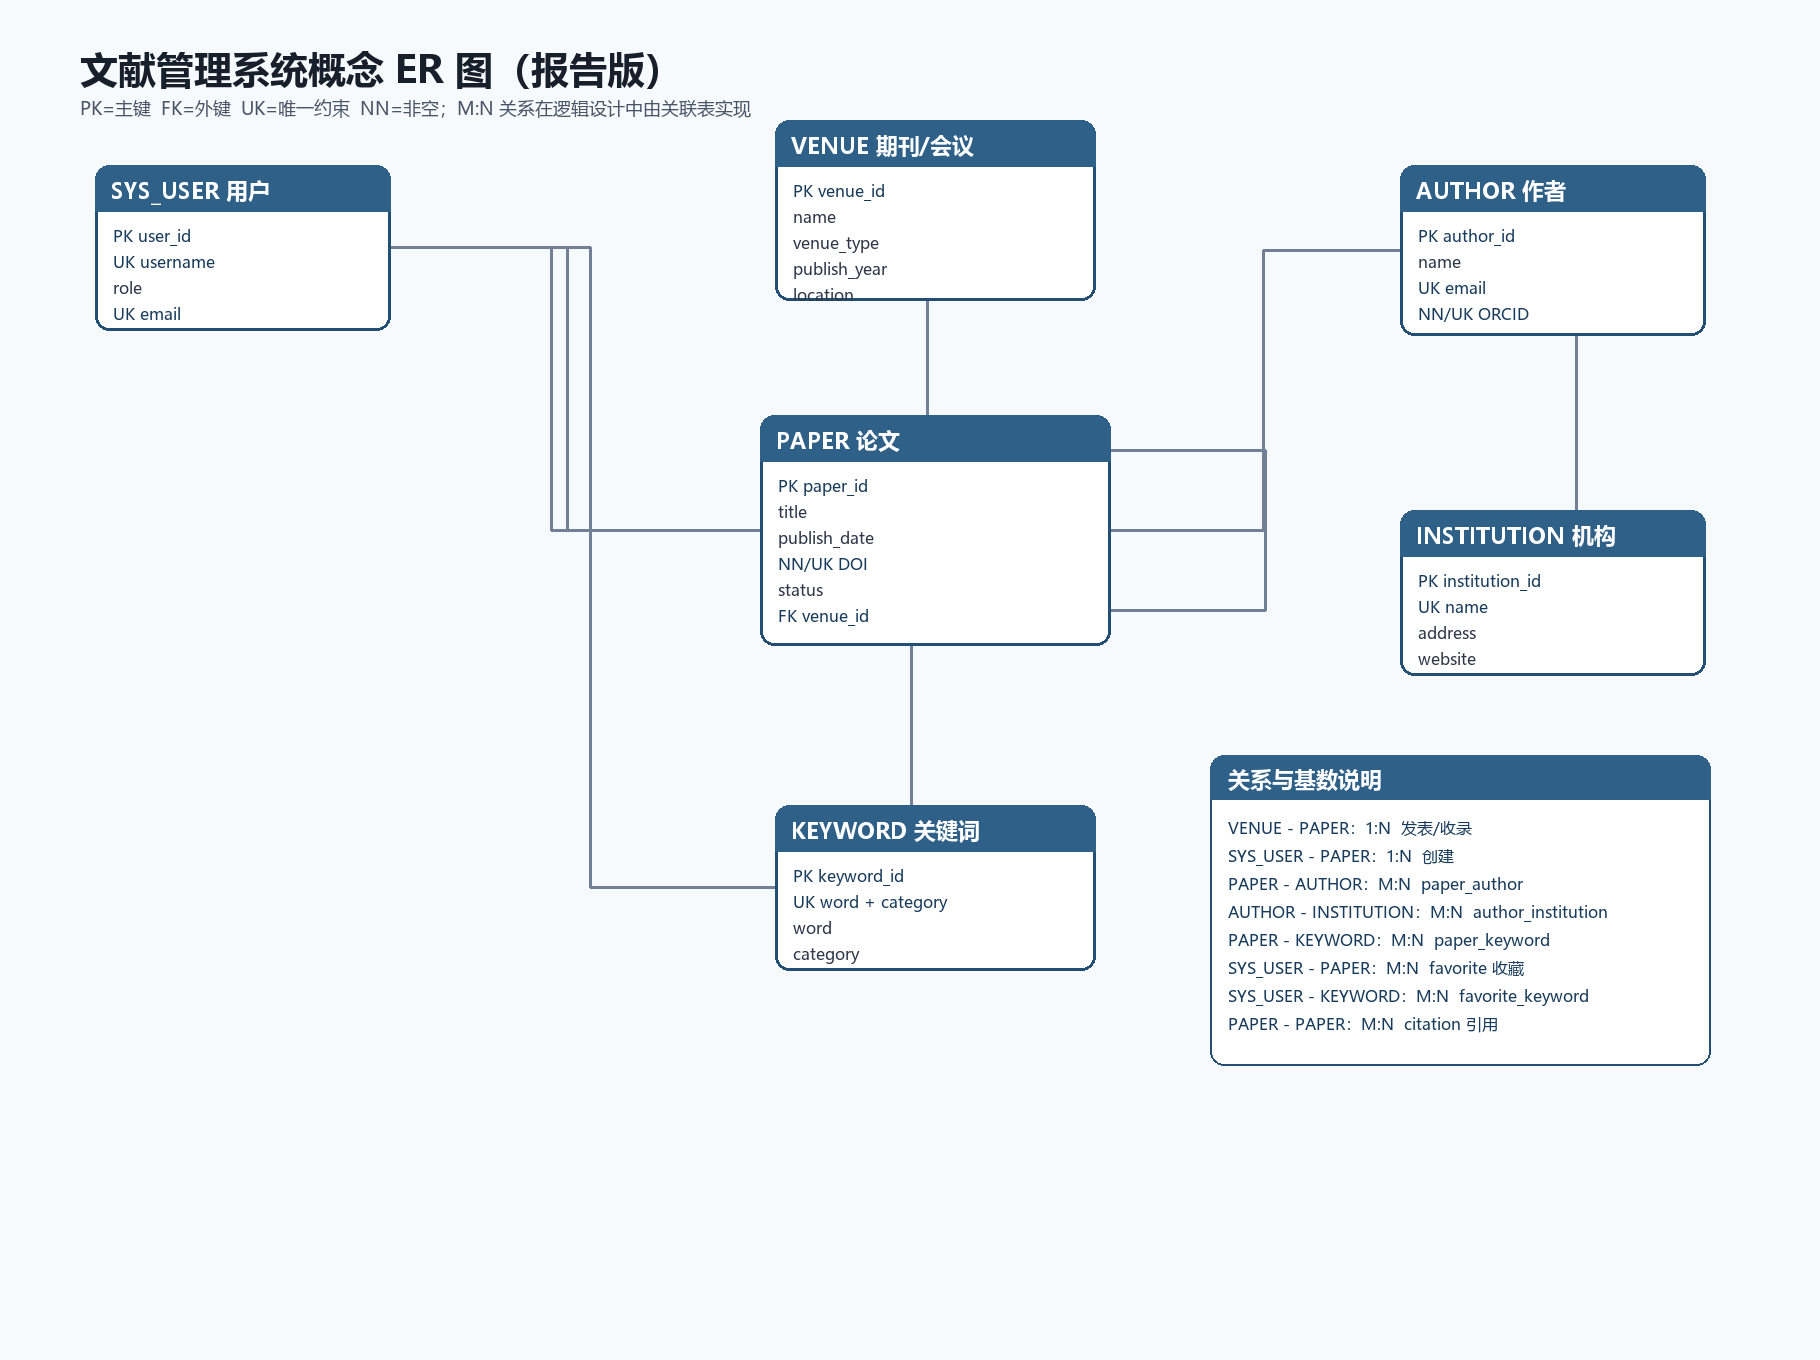
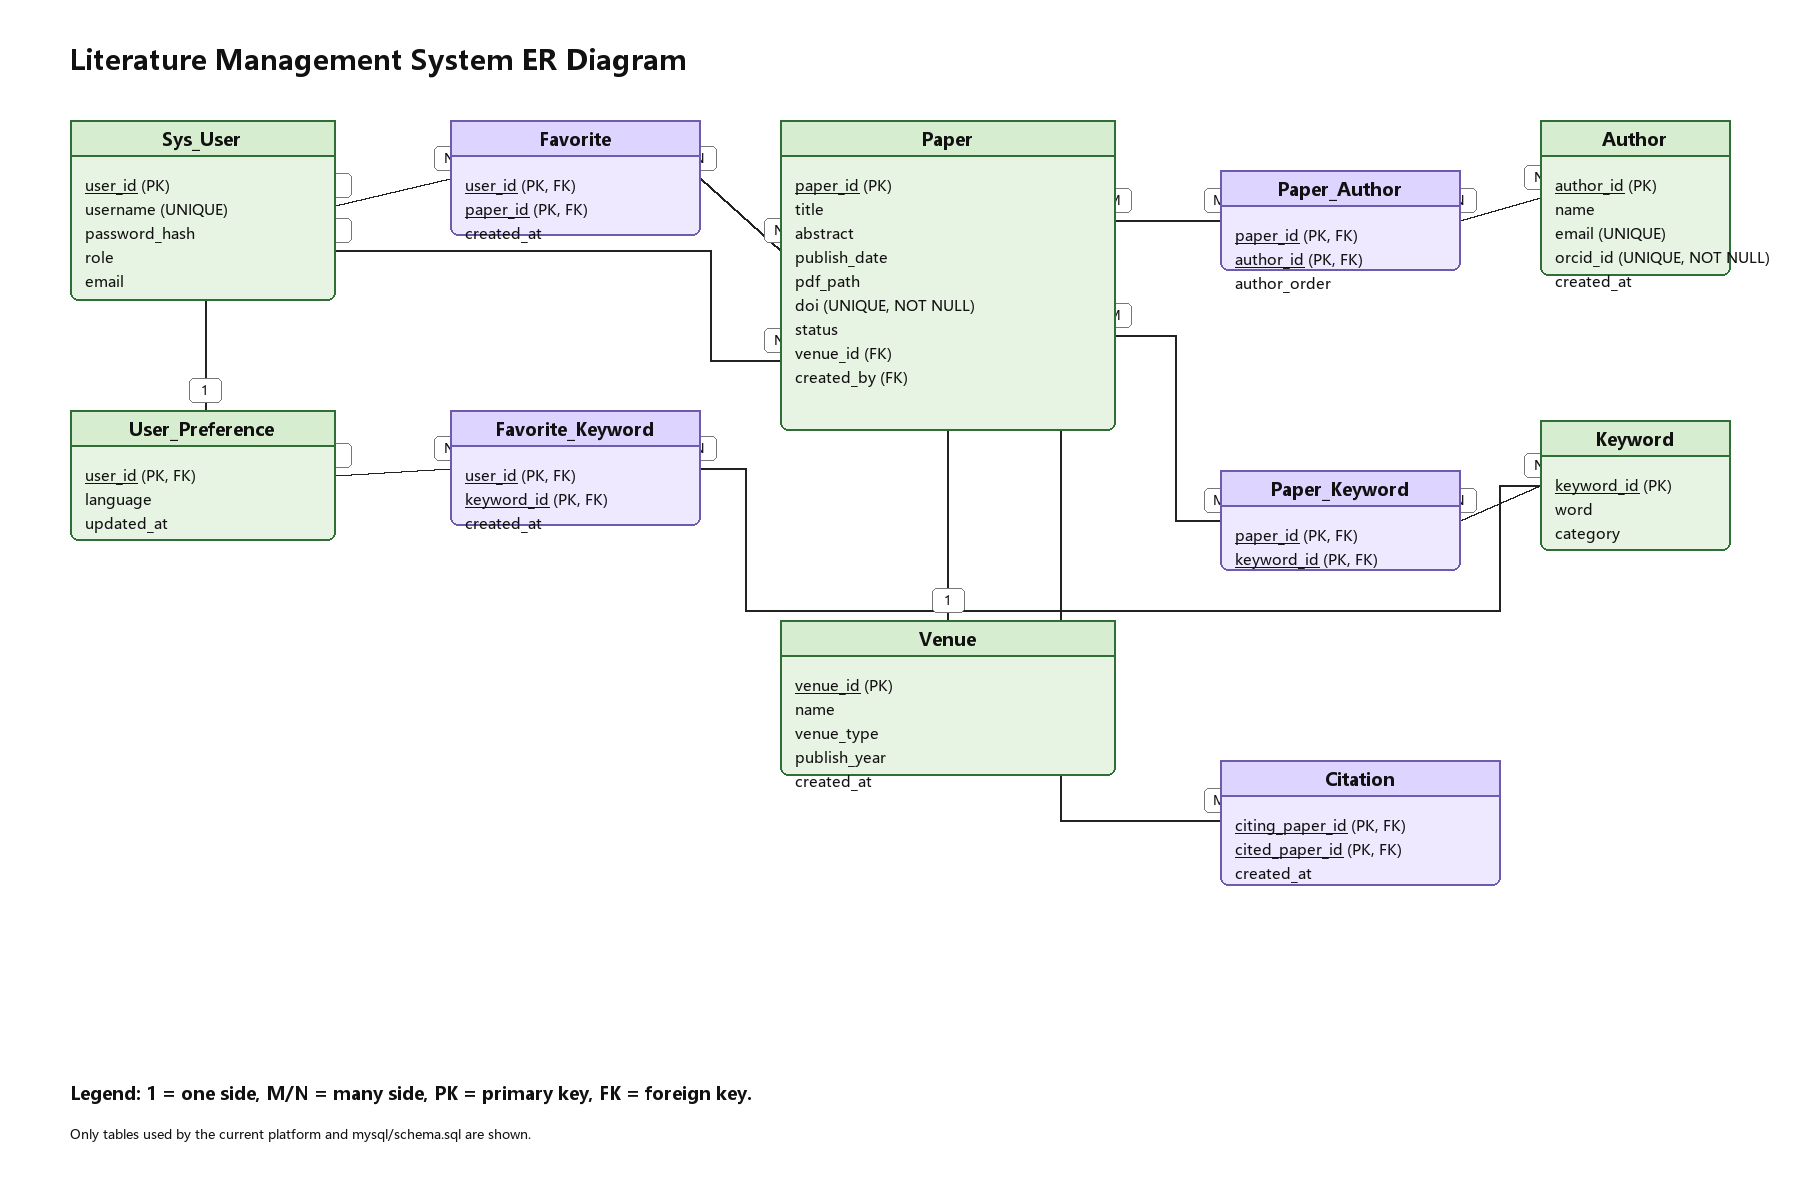
Add files via upload

diff --git a/app_mysql.py b/app_mysql.py
@@ -1,4 +1,4 @@
-from __future__ import annotations
+from __future__ import annotations
 
 import csv
 import io
@@ -85,7 +85,6 @@ TEXT = {
         "add_keyword": "添加",
         "citations": "引用",
         "query_placeholder": "标题 / 摘要 / DOI / 作者",
-        "institution": "单位",
         "year": "年份",
         "year_from": "起始年份",
         "year_to": "结束年份",
@@ -206,7 +205,6 @@ TEXT = {
         "add_keyword": "Add",
         "citations": "Citations",
         "query_placeholder": "Title / abstract / DOI / author",
-        "institution": "Institution",
         "year": "Year",
         "year_from": "From Year",
         "year_to": "To Year",
@@ -508,7 +506,7 @@ def keyword_filter_url(query: dict, keyword_id: int, key: str = "fav_keyword", a
         selected.append(keyword_id)
 
     params: list[tuple[str, str]] = []
-    for preserved_key in ("q", "year", "year_from", "year_to", "keyword", "institution", "status"):
+    for preserved_key in ("q", "year", "year_from", "year_to", "keyword", "status"):
         value = query.get(preserved_key)
         if value:
             params.append((preserved_key, str(value)))
@@ -525,7 +523,7 @@ def keyword_filter_url(query: dict, keyword_id: int, key: str = "fav_keyword", a
 
 def keyword_text_filter_url(query: dict, remove_word: str = "") -> str:
     params: list[tuple[str, str]] = []
-    for preserved_key in ("q", "year", "year_from", "year_to", "institution", "status"):
+    for preserved_key in ("q", "year", "year_from", "year_to", "status"):
         value = query.get(preserved_key)
         if value:
             params.append((preserved_key, str(value)))
@@ -728,8 +726,8 @@ def register_user(username: str, password: str, email: str = "") -> None:
     )
     user_id = current_user_id(username)
     run_sql(
-        "INSERT IGNORE INTO user_preference(user_id, language, font_family, font_size) "
-        f"VALUES ({user_id}, 'zh', 'system', 'normal');"
+        "INSERT IGNORE INTO user_preference(user_id, language) "
+        f"VALUES ({user_id}, 'zh');"
     )
 
 
@@ -751,8 +749,8 @@ def clear_login_cookie_header() -> str:
 
 def preferences(user_id: int) -> dict[str, str]:
     run_sql(
-        "INSERT IGNORE INTO user_preference(user_id, language, font_family, font_size) "
-        f"VALUES ({user_id}, 'zh', 'system', 'normal');"
+        "INSERT IGNORE INTO user_preference(user_id, language) "
+        f"VALUES ({user_id}, 'zh');"
     )
     rows = run_sql(
         f"""
@@ -772,8 +770,8 @@ def preferences(user_id: int) -> dict[str, str]:
 def update_preferences(user_id: int, data: dict) -> None:
     language = data.get("language") if data.get("language") in {"zh", "en"} else "zh"
     run_sql(
-        "INSERT INTO user_preference(user_id, language, font_family, font_size) VALUES "
-        f"({user_id}, {quote(language)}, 'system', 'normal') "
+        "INSERT INTO user_preference(user_id, language) VALUES "
+        f"({user_id}, {quote(language)}) "
         "ON DUPLICATE KEY UPDATE "
         "language = VALUES(language);"
     )
@@ -885,8 +883,8 @@ def create_paper(data: dict, user_id: int = 1) -> int:
 
     for order, author_id in enumerate(data.get("author_ids") or [], 1):
         statements.append(
-            "INSERT IGNORE INTO paper_author(paper_id, author_id, author_order, is_corresponding) "
-            f"SELECT @new_paper_id, author_id, {order}, {1 if order == 1 else 0} "
+            "INSERT IGNORE INTO paper_author(paper_id, author_id, author_order) "
+            f"SELECT @new_paper_id, author_id, {order} "
             f"FROM author WHERE author_id = {int(author_id)} LIMIT 1"
         )
 
@@ -992,8 +990,8 @@ def update_paper(paper_id: int, data: dict, user_id: int = 1) -> None:
     )
     for order, author_id in enumerate(data.get("author_ids") or [], 1):
         statements.append(
-            "INSERT IGNORE INTO paper_author(paper_id, author_id, author_order, is_corresponding) "
-            f"SELECT {paper_id}, author_id, {order}, {1 if order == 1 else 0} "
+            "INSERT IGNORE INTO paper_author(paper_id, author_id, author_order) "
+            f"SELECT {paper_id}, author_id, {order} "
             f"FROM author WHERE author_id = {int(author_id)} LIMIT 1"
         )
     statements.append(f"DELETE FROM paper_keyword WHERE paper_id = {paper_id}")
@@ -1007,12 +1005,6 @@ def update_paper(paper_id: int, data: dict, user_id: int = 1) -> None:
             f"SELECT {paper_id}, keyword_id FROM keyword "
             f"WHERE word = {quote(keyword)} AND category = 'topic' LIMIT 1"
         )
-    statements.append(
-        "INSERT INTO paper_version(paper_id, version_no, change_log, operator_id) "
-        f"SELECT {paper_id}, COALESCE(MAX(version_no), 0) + 1, '管理员修改并发布', {int(user_id or 1)} "
-        "FROM paper_version "
-        f"WHERE paper_id = {paper_id}"
-    )
     run_sql(";\n".join(statements) + ";")
 
 
@@ -1028,11 +1020,9 @@ def paper_rows(query: dict, user_id: int | None = None, is_admin: bool = False) 
         clauses.append(
             "("
             f"title LIKE {quote(q)} OR abstract LIKE {quote(q)} OR doi LIKE {quote(q)} "
-            f"OR authors LIKE {quote(q)} OR institutions LIKE {quote(q)}"
+            f"OR authors LIKE {quote(q)}"
             ")"
         )
-    if query.get("institution"):
-        clauses.append(f"institutions LIKE {quote('%' + query['institution'] + '%')}")
     if query.get("year") and re.fullmatch(r"\d{4}", str(query["year"])):
         clauses.append(f"YEAR(publish_date) = {int(query['year'])}")
     if query.get("year_from") and re.fullmatch(r"\d{4}", str(query["year_from"])):
@@ -1069,7 +1059,7 @@ def paper_rows(query: dict, user_id: int | None = None, is_admin: bool = False) 
         SELECT
           paper_id, title, abstract, publish_date, doi, venue_name,
           status,
-          authors, institutions, keywords,
+          authors, keywords,
           reference_count AS ref_count,
           cited_by_count,
           EXISTS(
@@ -1516,7 +1506,7 @@ def render_index(
         f"""
         <tr>
           <td><strong>{html_escape(row.get('title'))}</strong><span>{html_escape(row.get('doi') or t['no_doi'])}</span>{f"<i class='status-badge status-{html_escape(row.get('status') or 'active')}'>{html_escape(status_label(row.get('status')))}</i>" if is_admin else ""}</td>
-          <td>{html_escape(row.get('authors') or '-')}<span>{html_escape(row.get('institutions') or '-')}</span></td>
+          <td>{html_escape(row.get('authors') or '-')}</td>
           <td>{html_escape(row.get('venue_name') or '-')}<span>{html_escape(row.get('publish_date'))}</span></td>
           <td>{html_escape(row.get('keywords') or '-')}</td>
           <td><b>{html_escape(row.get('ref_count') or 0)}</b> {t['reference_label']} / <b>{html_escape(row.get('cited_by_count') or 0)}</b> {t['cited_by_label']}</td>
@@ -1886,7 +1876,6 @@ document.addEventListener('change', function (event) {
             {keyword_options_html}
           </select>
         </div>
-        <input name="institution" placeholder="{t['institution']}" value="{html_escape(query.get('institution',''))}">
         {''.join(f'<input type="hidden" name="fav_keyword" value="{html_escape(item)}">' for item in selected_keyword_ids(query))}
         {''.join(f'<input type="hidden" name="keyword_filter" value="{html_escape(word)}">' for word in search_keyword_filters)}
         <button>{t['combined_search']}</button>
@@ -2675,3 +2664,5 @@ def main() -> None:
 
 if __name__ == "__main__":
     main()
+
+

diff --git a/docs/MySQL数据库设计说明.md b/docs/MySQL数据库设计说明.md
@@ -1,40 +1,32 @@
 # MySQL 数据库设计说明
 
-核心实体包括 User、Paper、Venue、Author、Institution、Keyword、Tag、Citation、PaperVersion、AuditLog。主要联系如下：
+核心实体包括 User、Paper、Venue、Author、Keyword、Citation。主要联系如下：
 - Venue 与 Paper 为一对多关系，Paper 通过 venue_id 引用 Venue。
-- Paper 与 Author 为多对多关系，通过 paper_author 维护作者顺序和通讯作者标记。
-- Author 与 Institution 为多对多关系，通过 author_institution 维护任职起止年份。
+- Paper 与 Author 为多对多关系，通过 paper_author 维护作者顺序。
 - Paper 与 Keyword 为多对多关系，通过 paper_keyword 维护论文主题词。
 - Paper 与 Paper 之间存在自关联多对多引用关系，通过 citation 表保存 citing_paper_id 与 cited_paper_id。
 - User 与 Paper 之间通过 favorite 表表示收藏论文；User 与 Keyword 之间通过 favorite_keyword 表表示收藏关键词。
-- Paper 与 PaperVersion 是一对多关系，用于保存元数据版本；AuditLog 记录关键增改行为。
 ER 图已生成为图片文件 docs/ER图.png，报告 PDF 中应插入该图片；Mermaid 源码仅作为开发过程中的辅助材料，不作为报告正文展示。
 
 ## 表结构定义
 
-本系统数据库名为 literature_management，采用 utf8mb4 字符集。逻辑设计将论文、作者、机构、来源、关键词等概念拆分为独立实体表，并用关联表维护多对多关系。
-期中设计中 Institution 表本身存在 3NF 风险：如果在 institution 表内同时保存 address 和 country，而 country 可以由 address 中的国家/地区信息推导，则存在 institution_id -> address -> country 的传递依赖。country 不是由主键直接描述的独立事实，而是依赖另一个非主属性 address。期末版本删除 institution.country，仅保留 name、address、website，从而消除该传递依赖。
+本系统数据库名为 literature_management，采用 utf8mb4 字符集。逻辑设计将论文、作者、来源、关键词、用户等概念拆分为独立实体表，并用关联表维护多对多关系。
+期中设计中 Institution 表本身存在 3NF 风险：如果在 institution 表内同时保存 address 和 country，而 country 可以由 address 中的国家/地区信息推导，则存在 institution_id -> address -> country 的传递依赖。country 不是由主键直接描述的独立事实，而是依赖另一个非主属性 address。期末实现中平台没有作者机构维护功能，因此不再保留 Institution 与 author_institution 预留表，从结构上消除该传递依赖及未实现冗余。
 当前模型满足 1NF：表中字段均为原子值，作者列表、关键词列表、引用列表不再存入 paper 单字段，而是由 paper_author、paper_keyword、citation 表维护。
 当前模型满足 2NF：带联合主键的关联表中，非主属性依赖完整联合主键。例如 paper_author 的 author_order 描述某篇论文中的某位作者顺序，依赖 paper_id 与 author_id 共同确定的关系。
-当前模型满足 3NF：每张实体表只描述一个主题，非主属性不依赖其他非主属性。例如 paper 只保存 venue_id，不直接冗余 venue_name/publisher；author 不直接冗余机构信息；keyword 独立维护词汇与类别；institution 不再保存可由 address 推导的 country。
+当前模型满足 3NF：每张实体表只描述一个主题，非主属性不依赖其他非主属性。例如 paper 只保存 venue_id，不直接冗余 venue_name；author 使用 ORCID 唯一区分作者，不冗余机构信息；keyword 独立维护词汇与类别。
 
 ## 完整性与高级对象
 
 - sys_user：user_id PK; username UK; password_hash; role; email UK; created_at; updated_at。用途：系统用户、角色与登录凭据。
-- user_preference：user_id PK/FK; language; font_family; font_size; updated_at。用途：用户界面语言等偏好。
-- paper：paper_id PK; title; abstract; publish_date; pdf_path; doi NOT NULL UK; external_citation_count; status; venue_id FK; created_by FK。用途：论文元数据主表，DOI 用于论文去重。
-- venue：venue_id PK; name; venue_type; publisher; publish_year; location; website; created_at。用途：期刊、会议、预印本等来源。
-- author：author_id PK; name; email UK; orcid_id NOT NULL UK; homepage; created_at。用途：作者基本信息，ORCID 用于作者去重。
-- institution：institution_id PK; name UK; address; website。用途：机构信息，已删除 country 以满足 3NF。
-- author_institution：author_id PK/FK; institution_id PK/FK; start_year; end_year。用途：作者与机构多对多关系。
+- user_preference：user_id PK/FK; language; updated_at。用途：用户界面语言偏好。
+- paper：paper_id PK; title; abstract; publish_date; pdf_path; doi NOT NULL UK; status; venue_id FK; created_by FK。用途：论文元数据主表，DOI 用于论文去重。
+- venue：venue_id PK; name; venue_type; publish_year; created_at。用途：期刊、会议、预印本等来源。
+- author：author_id PK; name; email UK; orcid_id NOT NULL UK; created_at。用途：作者基本信息，ORCID 用于作者去重。
 - keyword：keyword_id PK; word; category; UNIQUE(word, category)。用途：关键词、领域词与主题词。
-- paper_author：paper_id PK/FK; author_id PK/FK; author_order; is_corresponding。用途：论文与作者关系及顺序。
+- paper_author：paper_id PK/FK; author_id PK/FK; author_order。用途：论文与作者关系及顺序。
 - paper_keyword：paper_id PK/FK; keyword_id PK/FK。用途：论文与关键词关系。
 - favorite：user_id PK/FK; paper_id PK/FK; created_at。用途：用户收藏论文。
 - favorite_keyword：user_id PK/FK; keyword_id PK/FK; created_at。用途：用户收藏关键词。
-- tag：tag_id PK; user_id FK; name; color; created_at。用途：用户自定义标签。
-- paper_tag：paper_id PK/FK; tag_id PK/FK。用途：论文与标签关系。
-- citation：citing_paper_id PK/FK; cited_paper_id PK/FK; context; created_at。用途：论文内部引用关系。
-- paper_version：version_id PK; paper_id FK; version_no; update_time; change_log; operator_id。用途：论文元数据版本记录。
-- audit_log：log_id PK; table_name; record_id; action_type; action_time; detail JSON。用途：关键数据变更审计日志。
+- citation：citing_paper_id PK/FK; cited_paper_id PK/FK; created_at。用途：论文内部引用关系。
 完整 SQL 定义见 mysql/schema.sql。

diff --git a/mysql/README.md b/mysql/README.md
@@ -62,24 +62,19 @@ SELECT * FROM v_paper_detail ORDER BY paper_id DESC LIMIT 20;
 - `paper`：论文元数据
 - `venue`：期刊、会议、预印本等来源
 - `author`：作者
-- `institution`：机构
-- `keyword`：关键词和领域标签
-- `tag`：用户自定义标签
-- `paper_version`：论文版本记录
-- `audit_log`：审计日志
+- `keyword`：关键词和领域词
 
 核心关联表：
 
 - `paper_author`：论文和作者的多对多关系
-- `paper_keyword`：论文和关键词/领域标签的多对多关系
-- `author_institution`：作者和机构的多对多关系
+- `paper_keyword`：论文和关键词/领域词的多对多关系
 - `favorite`：用户收藏论文
-- `paper_tag`：论文和标签的多对多关系
+- `favorite_keyword`：用户收藏关键词
 - `citation`：论文引用论文的自关联关系
 
 高级对象：
 
-- `v_paper_detail`：论文详情聚合视图，包含作者、单位、关键词、引用数和被引数
+- `v_paper_detail`：论文详情聚合视图，包含作者、关键词、引用数和被引数
 - `sp_create_paper`：新增论文存储过程
 - `trg_paper_before_insert` / `trg_paper_before_update`：禁止未来发表日期
 - `trg_citation_before_insert` / `trg_citation_before_update`：禁止论文自引用

diff --git a/README.md b/README.md
@@ -22,6 +22,8 @@ init_mysql_db.bat
 1. `mysql/schema.sql`
 2. `mysql/seed_data.sql`
 
+`seed_data.sql` 会创建课程演示默认管理员账号：用户名 `admin`，密码 `admin123`。普通用户可在登录页自行注册。
+
 备用命令行方式：
 ```bash
 mysql -u root -p < mysql/schema.sql
@@ -37,8 +39,9 @@ python app_mysql.py
 Windows 下可双击 `start_mysql_app.bat`。脚本会优先使用系统 Python，并在缺少依赖时提示安装命令。启动后访问 `http://127.0.0.1:8000`。
 
 ## 功能验证
+- 使用默认管理员账号 `admin` / `admin123` 登录，检查审核、修改、归档、删除等管理员功能。
 - 注册普通用户并登录。
-- 使用标题、作者、机构、年份范围、关键词进行组合检索。
+- 使用标题、作者、年份范围、关键词进行组合检索。
 - 上传 PDF，检查系统是否预填表单但不直接入库。
 - 新增论文，普通用户提交后状态为 pending。
 - 新增作者必须填写唯一 ORCID；新增论文必须填写唯一 DOI，并选择作者表中的作者。

diff --git a/docs/用户手册.md b/docs/用户手册.md
@@ -2,8 +2,8 @@
 
 1. 初始化数据库：推荐双击 init_mysql_db.bat，脚本会自动运行 mysql/schema.sql 和 mysql/seed_data.sql。新建库会覆盖同名literature_management 数据库。
 2. 启动平台：双击 start_mysql_app.bat，按提示输入 MySQL 用户名和密码；浏览器打开 http://127.0.0.1:8000。
-3. 登录注册：普通用户可点击注册创建账号；管理员账号由 seed_data.sql 初始化。
-4. 检索论文：在检索区输入标题、摘要、DOI、作者或机构；可填写年份或年份范围；可从关键词下拉点击添加多个关键词筛选。
+3. 登录注册：普通用户可点击注册创建账号；课程演示默认管理员账号由 seed_data.sql 初始化，用户名为 `admin`，密码为 `admin123`。
+4. 检索论文：在检索区输入标题、摘要、DOI 或作者；可填写年份或年份范围；可从关键词下拉点击添加多个关键词筛选。
 5. 收藏论文与关键词：检索结果中点击收藏论文；收藏页上方可检索 keyword 表中的任意关键词并收藏；收藏关键词可作为筛选条件。
 6. 上传论文：进入文献入库区，选择 PDF 上传解析，系统仅预填信息，用户确认后再保存。
 7. 批量解析：在批量 PDF 解析区一次选择多篇 PDF，系统生成多个确认表单，检查后统一保存。

diff --git a/docs/代码文档.md b/docs/代码文档.md
@@ -1,7 +1,7 @@
 # 代码文档
 
 1. 用户与权限：支持登录、注册、退出；角色包括普通用户和管理员。普通用户只能看到 active 论文，管理员可查看 pending、active、archived。
-2. 文献检索：支持标题、摘要、DOI、作者、机构检索；支持年份精确搜索和 year_from/year_to 范围搜索；支持关键词多选筛选和收藏关键词筛选。
+2. 文献检索：支持标题、摘要、DOI、作者检索；支持年份精确搜索和 year_from/year_to 范围搜索；支持关键词多选筛选和收藏关键词筛选。
 3. 文献入库：用户可手动填写论文信息，作者必须从作者表选择；关键词可自由输入并生成胶囊，保存时若不存在则自动写入 keyword 表。普通用户提交进入 pending，管理员提交默认为 active。
 4. PDF 上传解析：单篇 PDF 上传后只预填表单，不直接入库；用户确认后提交。批量 PDF 解析会生成多篇待确认表单，确认后批量保存。
 5. 管理员审核：管理员可将 pending 论文发布为 active，可将 active 论文归档为 archived，也可将 archived 重新发布为 active；管理员可删除论文。